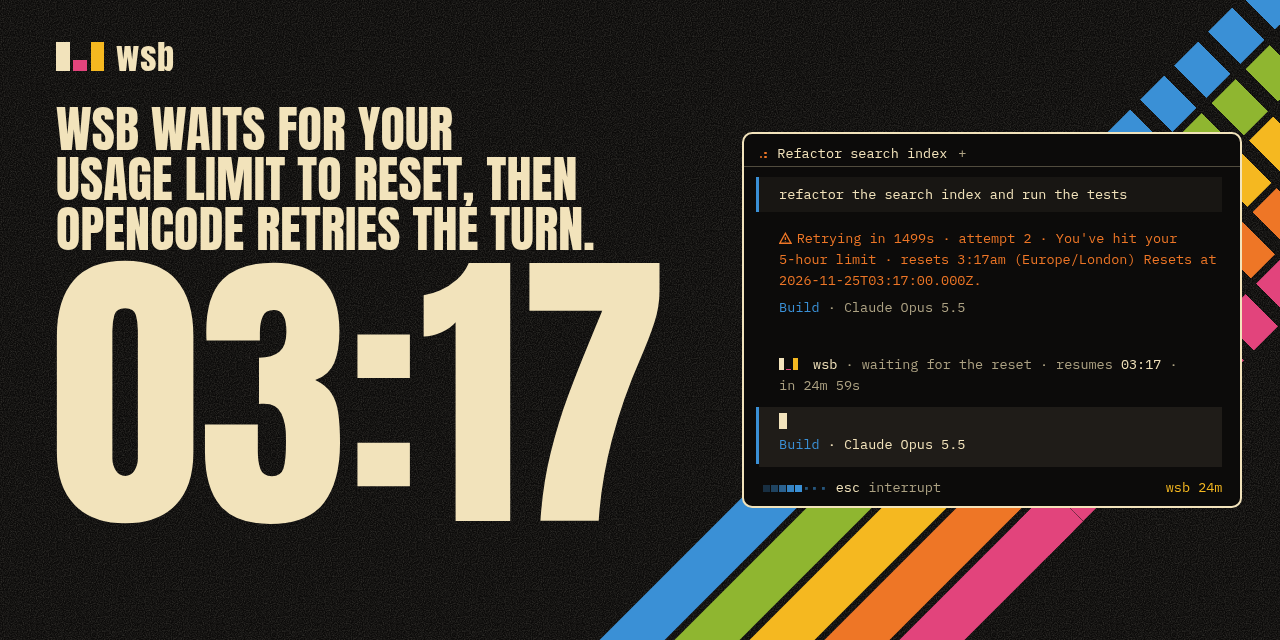
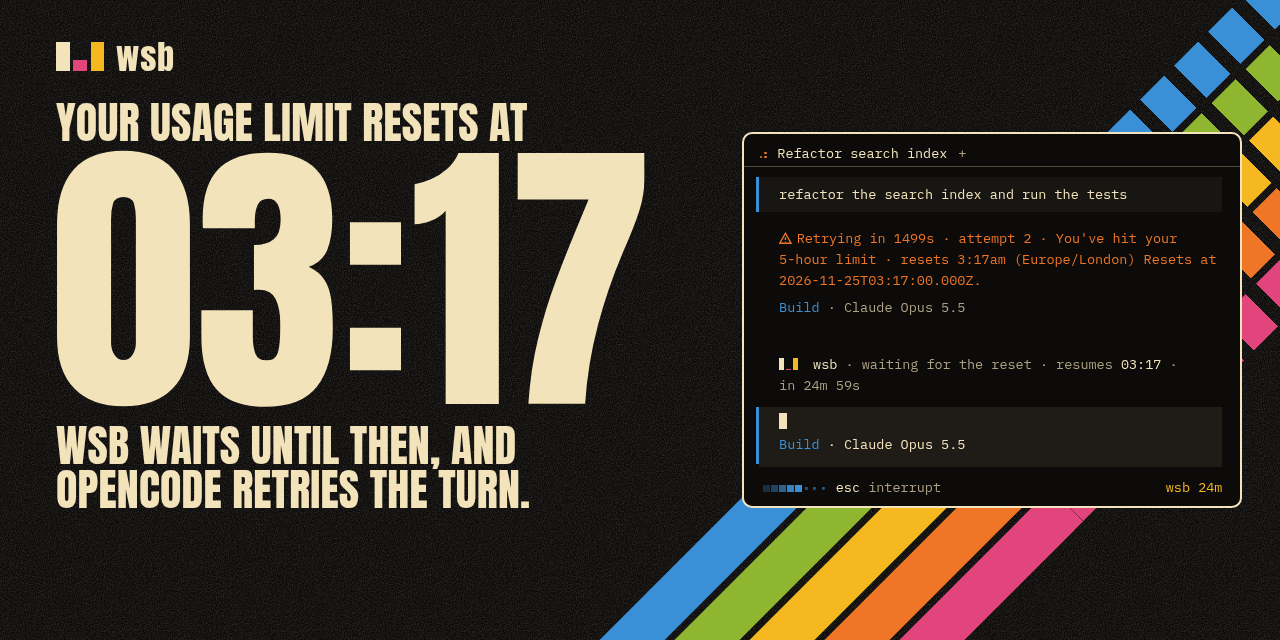
feat: put the reset time back in the headline and redraw the timeline

Changed region(s): [[0.0312, 0.1562, 0.5312, 0.8438]]

diff --git a/web/public/style.css b/web/public/style.css
@@ -263,7 +263,7 @@ a {
 }
 
 .hero {
-  --fs-l: min(8.2vw, 54px);
+  --fs-l: min(7.5vw, 54px);
   --fs-n: min(calc((100vw - 32px) / 2.06), 340px);
   --fs-tui: clamp(10.5px, 2.9vw, 14px);
   --stripe: clamp(22px, 7vw, 44px);
@@ -333,17 +333,22 @@ a {
 }
 
 .claim {
-  max-width: 13.4em;
   margin: 14px 0 0;
   font: 400 var(--fs-l) / 1 var(--display);
   letter-spacing: 0.004em;
   text-transform: uppercase;
+}
+
+.claim .l {
+  display: block;
   text-wrap: balance;
 }
 
-.hero .num {
-  margin: 0.035em 0 0 -0.016em;
-  font: 400 var(--fs-n) / 0.88 var(--display);
+.claim .num {
+  display: block;
+  margin: 0.03em 0 0.045em -0.016em;
+  font-size: var(--fs-n);
+  line-height: 0.88;
   white-space: nowrap;
 }
 
@@ -1072,8 +1077,8 @@ html:not(.js) .play {
 @media (min-width: 1120px) and (min-height: 680px) {
   .hero {
     --u: min(100vw / 1440, 100svh / 900);
-    --fs-l: calc(var(--u) * 60);
-    --fs-n: calc(var(--u) * 330);
+    --fs-l: calc(var(--u) * 58);
+    --fs-n: calc(var(--u) * 340);
     --fs-tui: calc(var(--u) * 14);
     --stripe: calc(var(--u) * 50);
     --gap: calc(var(--u) * 8);
@@ -1122,8 +1127,8 @@ html:not(.js) .play {
     margin: 0;
   }
 
-  .hero .num {
-    margin: calc(var(--u) * 14) 0 0 calc(var(--u) * -5);
+  .claim .num {
+    margin: calc(var(--u) * 16) 0 calc(var(--u) * 16) calc(var(--u) * -5);
   }
 
   .works {
@@ -1192,9 +1197,9 @@ html:not(.js) .play {
 
 .wait {
   --gap: clamp(20px, 2.6vw, 40px);
-  --fs: clamp(84px, 13.4vw, 196px);
-  --band: clamp(48px, 6.6vw, 96px);
-  --dash: clamp(20px, 2.7vw, 38px);
+  --fs: clamp(48px, 5.6vw, 80px);
+  --band: clamp(120px, 15vw, 216px);
+  --dash: clamp(24px, 3.1vw, 44px);
   --period: calc(var(--dash) * 1.42);
   overflow: hidden;
   overflow: clip;
@@ -1213,7 +1218,8 @@ html:not(.js) .play {
 }
 
 .phases::before,
-.phases::after {
+.phases::after,
+.phases li:first-child::before {
   grid-row: 2;
   background: linear-gradient(
     180deg,
@@ -1232,17 +1238,19 @@ html:not(.js) .play {
 
 .phases::before {
   grid-column: 1 / 3;
-  margin: 0 calc(var(--dash) * 0.42 - var(--gap)) 0 calc(var(--pad) * -1);
-  mask:
-    linear-gradient(#000 0 0) 0 0 / var(--pad) 100% no-repeat,
-    repeating-linear-gradient(90deg, #000 0 var(--dash), transparent 0 var(--period))
-      calc(var(--pad) + var(--dash) * 0.42) 0 / 200vw 100% no-repeat;
+  margin-right: calc(var(--gap) * -1);
+  mask: linear-gradient(90deg, #000 70.42%, transparent 0) 0 0 / var(--period) 100% round no-repeat;
 }
 
 .phases::after {
   grid-column: 3;
   margin-right: calc(var(--pad) * -1);
   transform-origin: 0 50%;
+}
+
+.phases li:first-child::before {
+  width: calc(var(--pad) - var(--dash) * 0.42);
+  margin-left: calc(var(--pad) * -1);
 }
 
 .phases li {
@@ -1265,8 +1273,9 @@ html:not(.js) .play {
 
 .when {
   grid-row: 1;
-  margin: 0 0 clamp(16px, 2vw, 30px) -0.016em;
+  margin: 0 0 clamp(12px, 1.4vw, 20px) -0.016em;
   font: 400 var(--fs) / 0.84 var(--display);
+  text-transform: uppercase;
 }
 
 .phases h3 {
@@ -1288,7 +1297,7 @@ html:not(.js) .play {
 @media (max-width: 760px) {
   .wait {
     --rail: clamp(40px, 12vw, 56px);
-    --fs: clamp(64px, 19vw, 96px);
+    --fs: clamp(44px, 13vw, 60px);
     padding-top: 0;
     padding-bottom: 0;
   }
@@ -1319,15 +1328,17 @@ html:not(.js) .play {
   .phases::before {
     grid-row: 1 / 3;
     margin: 0;
-    mask:
-      linear-gradient(#000 0 0) 0 0 / 100% 36px no-repeat,
-      repeating-linear-gradient(180deg, #000 0 var(--dash), transparent 0 var(--period)) 0
-        calc(36px + var(--dash) * 0.42) / 100% calc(100% - 36px - var(--dash) * 0.84) no-repeat;
+    mask: linear-gradient(180deg, #000 70.42%, transparent 0) 0 0 / 100% var(--period) no-repeat
+      round;
   }
 
   .phases::after {
     grid-row: 3;
-    margin: -1px 0 0;
+    margin: 0;
+  }
+
+  .phases li:first-child::before {
+    content: none;
   }
 
   .phases li:nth-child(n) {
@@ -1954,11 +1965,13 @@ html:not(.js) .play {
 
 @supports (animation-timeline: view()) {
   @media (prefers-reduced-motion: no-preference) {
-    @keyframes drift {
+    @keyframes draw {
       from {
-        mask-position:
-          0 0,
-          calc(var(--pad) + var(--dash) * 0.42 - var(--period) * 5) 0;
+        clip-path: inset(0 100% 0 0);
+      }
+
+      to {
+        clip-path: inset(0);
       }
     }
 
@@ -1970,14 +1983,14 @@ html:not(.js) .play {
 
     @media (min-width: 761px) {
       .phases::before {
-        animation: drift linear both;
-        animation-range: entry 0% exit 100%;
+        animation: draw linear both;
+        animation-range: entry 0% cover 30%;
         animation-timeline: view();
       }
 
       .phases::after {
         animation: back cubic-bezier(0.2, 0.7, 0.2, 1) both;
-        animation-range: entry 55% cover 42%;
+        animation-range: cover 30% cover 42%;
         animation-timeline: view();
       }
     }

diff --git a/web/public/index.html b/web/public/index.html
@@ -41,7 +41,7 @@
     <meta property="og:site_name" content="wsb" />
     <meta
       property="og:title"
-      content="wsb waits for your usage limit to reset, then OpenCode retries the turn."
+      content="Your usage limit resets at 03:17. wsb waits until then, and OpenCode retries the turn."
     />
     <meta
       property="og:description"
@@ -53,7 +53,7 @@
     <meta property="og:image:height" content="640" />
     <meta
       property="og:image:alt"
-      content="wsb poster on black: the sentence wsb waits for your usage limit to reset, then OpenCode retries the turn, over giant cream numerals 03:17. Five diagonal stripes run behind an OpenCode session whose wsb panel reads waiting for the reset, resumes 03:17, in 24m 59s."
+      content="wsb poster on black: Your usage limit resets at, giant cream numerals 03:17, then wsb waits until then, and OpenCode retries the turn. Five diagonal stripes run behind an OpenCode session whose wsb panel reads waiting for the reset, resumes 03:17, in 24m 59s."
     />
     <meta name="twitter:card" content="summary_large_image" />
     <meta name="twitter:title" content="wsb: auto-resume OpenCode when your usage limit resets" />
@@ -64,7 +64,7 @@
     <meta name="twitter:image" content="https://wsb.tsu.ar/assets/social.png" />
     <meta
       name="twitter:image:alt"
-      content="wsb poster: giant 03:17 under the sentence wsb waits for your usage limit to reset, then OpenCode retries the turn, with five stripes behind an OpenCode session held by wsb."
+      content="wsb poster: Your usage limit resets at 03:17, wsb waits until then, and OpenCode retries the turn, with five stripes behind an OpenCode session held by wsb."
     />
     <link rel="alternate" type="text/markdown" title="wsb in Markdown" href="/index.md" />
     <link rel="describedby" type="text/markdown" href="/llms.txt" />
@@ -152,9 +152,10 @@
         <div class="board">
           <div class="pitch">
             <h1 class="claim">
-              wsb waits for your usage limit to reset, then OpenCode retries the turn.
+              <span class="l">Your usage limit resets at</span>
+              <span class="num">03:17</span><span class="vh">.</span>
+              <span class="l">wsb waits until then, and OpenCode retries the turn.</span>
             </h1>
-            <p class="num" aria-hidden="true">03:17</p>
 
             <p class="works">
               <span>Works with</span>
@@ -344,6 +345,7 @@
             </p>
           </li>
           <li>
+            <b class="when">24m 59s</b>
             <h3>wsb waits</h3>
             <p>It makes no model calls while it waits, so waiting uses no quota.</p>
           </li>

diff --git a/README.md b/README.md
@@ -1,6 +1,6 @@
 # wsb
 
-[![wsb waits for your usage limit to reset, then OpenCode retries the turn](web/public/assets/social.png)](https://wsb.tsu.ar/)
+[![Your usage limit resets at 03:17: wsb waits until then, and OpenCode retries the turn](web/public/assets/social.png)](https://wsb.tsu.ar/)
 
 OpenCode plugin. When your subscription hits its usage limit, it waits for the reset and retries the same turn.
 
@@ -11,6 +11,8 @@ opencode plugin add github:tsu-ld/wsb
 Works with Claude subscriptions (through `opencode-with-claude` or OpenCode's `claude-agent` provider), ChatGPT/Codex and OpenCode Go.
 
 ![An OpenCode session hits its 5-hour limit: wsb reads the reset time from the provider's message, no model call is made for 24 minutes, and at 03:17 OpenCode retries the same turn](web/public/assets/night.gif)
+
+wsb is not built by the OpenCode team and is not affiliated with it.
 
 ## Develop
 
